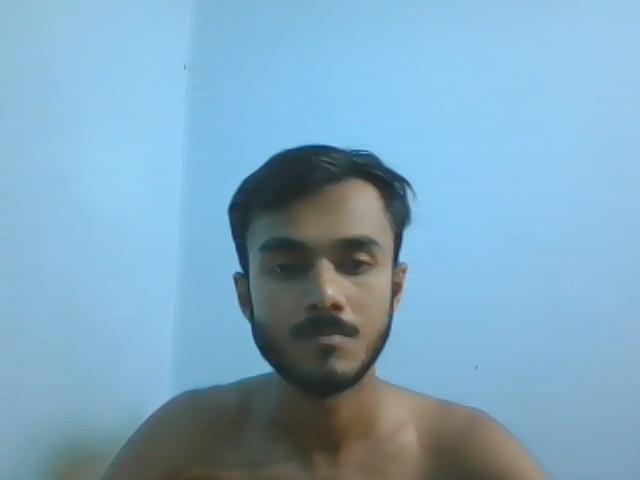
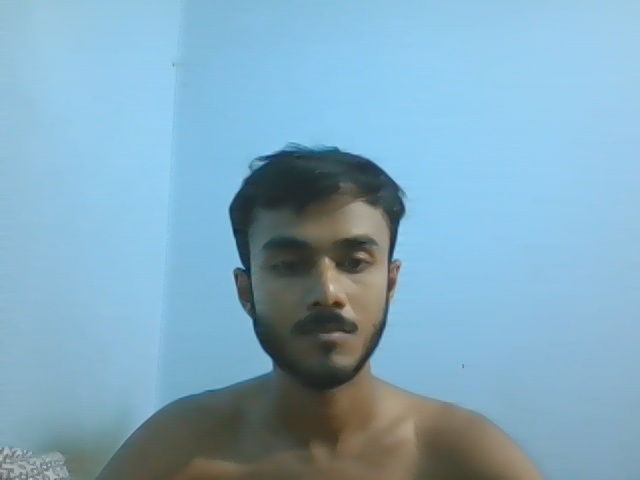
new updated

diff --git a/scan_system.py b/scan_system.py
@@ -6,6 +6,7 @@ import os
 import threading
 import time
 from datetime import datetime, timedelta
+from openpyxl import Workbook
 
 # ---------------- FOLDERS ----------------
 ENC_DIR = "encodings"
@@ -16,48 +17,37 @@ os.makedirs(ATT_DIR, exist_ok=True)
 
 # ---------------- GLOBAL ----------------
 encodings = {}
-pending_students = set()
-
 session_active = False
-session_subject = ""
 session_start_time = None
 session_duration = timedelta(hours=2)
+pending_students = set()
 
 # ---------------- LOAD STUDENTS ----------------
 def load_students():
     students = []
-
     with open(STUDENTS_FILE, "r") as f:
         reader = csv.reader(f)
         next(reader)
         for row in reader:
             students.append({"id": row[0], "name": row[1], "dept": row[2]})
-
     return students
 
-
 STUDENTS = load_students()
-
 
 # ---------------- LOAD ENCODINGS ----------------
 def load_encodings():
     enc = {}
-
     for file in os.listdir(ENC_DIR):
         if file.endswith(".npy"):
             sid = file.split(".")[0]
             enc[sid] = np.load(f"{ENC_DIR}/{file}")
-
     return enc
-
 
 encodings = load_encodings()
 
-
-# ---------------- SUBJECT FILE ----------------
+# ---------------- FILE ----------------
 def get_subject_file(subject):
     return os.path.join(ATT_DIR, f"{subject}.csv")
-
 
 def init_subject_file(subject):
     file = get_subject_file(subject)
@@ -66,40 +56,30 @@ def init_subject_file(subject):
         with open(file, "w", newline="") as f:
             writer = csv.writer(f)
             writer.writerow(["ID", "Name", "Dept"])
-
             for s in STUDENTS:
                 writer.writerow([s["id"], s["name"], s["dept"]])
 
-    return file
-
-
-# ---------------- ADD SESSION COLUMN ----------------
+# ---------------- SESSION COLUMN ----------------
 def add_session_column(subject):
     file = get_subject_file(subject)
 
     session_name = datetime.now().strftime("%Y-%m-%d %H:%M")
 
-    rows = []
-
     with open(file, "r") as f:
-        reader = list(csv.reader(f))
-        header = reader[0]
-        data = reader[1:]
+        rows = list(csv.reader(f))
+
+    header = rows[0]
+    data = rows[1:]
 
     header.append(session_name)
 
     for row in data:
-        row.append("Absent")   # default
-
-    rows.append(header)
-    rows.extend(data)
+        row.append("Absent")
 
     with open(file, "w", newline="") as f:
         writer = csv.writer(f)
-        writer.writerows(rows)
-
-    return session_name
-
+        writer.writerow(header)
+        writer.writerows(data)
 
 # ---------------- MARK PRESENT ----------------
 def mark_present(subject, sid):
@@ -111,10 +91,7 @@ def mark_present(subject, sid):
     header = rows[0]
     data = rows[1:]
 
-    if sid not in pending_students:
-        return
-
-    col_index = len(header) - 1  # latest session column
+    col_index = len(header) - 1
 
     for row in data:
         if row[0] == sid:
@@ -125,13 +102,13 @@ def mark_present(subject, sid):
         writer.writerow(header)
         writer.writerows(data)
 
-
-# ---------------- AUTO ABSENT AFTER 2 HOURS ----------------
-def session_closer(subject, session_start):
+# ---------------- SESSION AUTO CLOSE ----------------
+def session_closer(subject, start_time):
     global session_active, pending_students
 
     while session_active:
-        if datetime.now() - session_start >= session_duration:
+
+        if datetime.now() - start_time >= session_duration:
 
             file = get_subject_file(subject)
 
@@ -152,24 +129,23 @@ def session_closer(subject, session_start):
                 writer.writerow(header)
                 writer.writerows(data)
 
-            print("⛔ SESSION CLOSED (AUTO ABSENT DONE)")
             session_active = False
             pending_students.clear()
+            print("\n⛔ SESSION CLOSED (2 HOURS DONE)\n")
             break
 
         time.sleep(30)
-
 
 # ---------------- QR SCAN ----------------
 def scan_qr():
     cam = cv2.VideoCapture(0)
     detector = cv2.QRCodeDetector()
 
-    print("📷 Scan QR Code...")
+    print("📷 Scan QR...")
 
     while True:
         ret, frame = cam.read()
-        data, bbox, _ = detector.detectAndDecode(frame)
+        data, _, _ = detector.detectAndDecode(frame)
 
         if data:
             cam.release()
@@ -183,7 +159,6 @@ def scan_qr():
     cam.release()
     cv2.destroyAllWindows()
     return None
-
 
 # ---------------- FACE VERIFY ----------------
 def face_verify(sid):
@@ -225,6 +200,48 @@ def face_verify(sid):
     cv2.destroyAllWindows()
     return False
 
+# ---------------- EXCEL EXPORT (FIXED + PERFECT) ----------------
+def export_to_excel(subject):
+
+    file = get_subject_file(subject)
+    excel_file = f"{subject}_attendance.xlsx"
+
+    with open(file, "r") as f:
+        rows = list(csv.reader(f))
+
+    header = rows[0]
+    data = rows[1:]
+
+    session_cols = header[3:]
+    total_sessions = len(session_cols)
+
+    wb = Workbook()
+    ws = wb.active
+    ws.title = subject
+
+    # HEADER FIX
+    ws.append(["ID", "Name", "Dept"] + session_cols + ["Percentage"])
+
+    for row in data:
+
+        sid = row[0]
+        name = row[1]
+        dept = row[2]
+
+        sessions = row[3:]
+
+        if len(sessions) < total_sessions:
+            sessions += ["Absent"] * (total_sessions - len(sessions))
+
+        present_count = sessions.count("Present")
+
+        percent = (present_count / total_sessions * 100) if total_sessions > 0 else 0
+
+        ws.append([sid, name, dept] + sessions + [f"{percent:.2f}%"])
+
+    wb.save(excel_file)
+
+    print(f"\n📁 Excel Saved: {excel_file}")
 
 # ---------------- MAIN ----------------
 print("🚀 SYSTEM STARTED")
@@ -232,21 +249,16 @@ print("🚀 SYSTEM STARTED")
 subject = input("📘 Enter Subject Name: ")
 
 init_subject_file(subject)
+add_session_column(subject)
 
-session_start_time = datetime.now()
 session_active = True
-
-session_name = add_session_column(subject)
-
-print(f"📌 Attendance Started for: {subject}")
-print(f"⏳ Session: {session_name} (2 hours)")
+session_start_time = datetime.now()
 
 threading.Thread(
     target=session_closer,
     args=(subject, session_start_time),
     daemon=True
 ).start()
-
 
 while session_active:
 
@@ -261,4 +273,7 @@ while session_active:
         mark_present(subject, sid)
         print(f"✅ PRESENT: {sid}")
     else:
-        print(f"❌ FACE FAILED: {sid}")
+        print(f"❌ FAILED: {sid}")
+
+# ---------------- FINAL EXCEL ----------------
+export_to_excel(subject)

diff --git a/register.py b/register.py
@@ -2,22 +2,39 @@ import cv2
 import csv
 import os
 import qrcode
+import numpy as np
+import face_recognition
 
+# ---------------- FOLDERS ----------------
 STUDENTS_FILE = "students.csv"
 FACE_DIR = "faces"
 QR_DIR = "qrcodes"
+ENC_DIR = "encodings"
 
 os.makedirs(FACE_DIR, exist_ok=True)
 os.makedirs(QR_DIR, exist_ok=True)
+os.makedirs(ENC_DIR, exist_ok=True)
 
+# ---------------- INIT CSV ----------------
 if not os.path.exists(STUDENTS_FILE):
     with open(STUDENTS_FILE, "w", newline="") as f:
         writer = csv.writer(f)
         writer.writerow(["ID", "Name", "Department"])
 
+# ---------------- CHECK DUPLICATE ----------------
+def is_duplicate(sid):
+    with open(STUDENTS_FILE, "r") as f:
+        reader = csv.reader(f)
+        next(reader)
+        for row in reader:
+            if row[0] == sid:
+                return True
+    return False
+
+# ---------------- FACE CAPTURE ----------------
 def capture_face(student_id):
+
     cam = cv2.VideoCapture(0)
-    count = 0
 
     print("📸 Press SPACE to capture face, Q to quit")
 
@@ -28,9 +45,20 @@ def capture_face(student_id):
         key = cv2.waitKey(1)
 
         if key == ord(' '):
-            path = f"{FACE_DIR}/{student_id}.jpg"
-            cv2.imwrite(path, frame)
-            print("Face Saved")
+
+            img_path = f"{FACE_DIR}/{student_id}.jpg"
+            cv2.imwrite(img_path, frame)
+
+            # 🔥 CREATE FACE ENCODING (IMPORTANT FIX)
+            rgb = cv2.cvtColor(frame, cv2.COLOR_BGR2RGB)
+            enc = face_recognition.face_encodings(rgb)
+
+            if len(enc) > 0:
+                np.save(f"{ENC_DIR}/{student_id}.npy", enc[0])
+                print("✅ Face & Encoding Saved")
+            else:
+                print("❌ No face detected, try again")
+
             break
 
         elif key == ord('q'):
@@ -39,15 +67,24 @@ def capture_face(student_id):
     cam.release()
     cv2.destroyAllWindows()
 
+# ---------------- QR GENERATE ----------------
 def generate_qr(student_id):
     img = qrcode.make(student_id)
     img.save(f"{QR_DIR}/{student_id}.png")
 
+# ---------------- REGISTER STUDENT ----------------
 def register():
-    sid = input("ID: ")
-    name = input("Name: ")
-    dept = input("Department: ")
 
+    sid = input("ID: ").strip()
+    name = input("Name: ").strip()
+    dept = input("Department: ").strip()
+
+    # 🔥 DUPLICATE CHECK FIX
+    if is_duplicate(sid):
+        print("❌ This ID already exists!")
+        return
+
+    # save student
     with open(STUDENTS_FILE, "a", newline="") as f:
         writer = csv.writer(f)
         writer.writerow([sid, name, dept])
@@ -55,6 +92,7 @@ def register():
     generate_qr(sid)
     capture_face(sid)
 
-    print("✅ Student Registered Successfully!")
+    print("\n✅ Student Registered Successfully!")
 
+# ---------------- RUN ----------------
 register()
